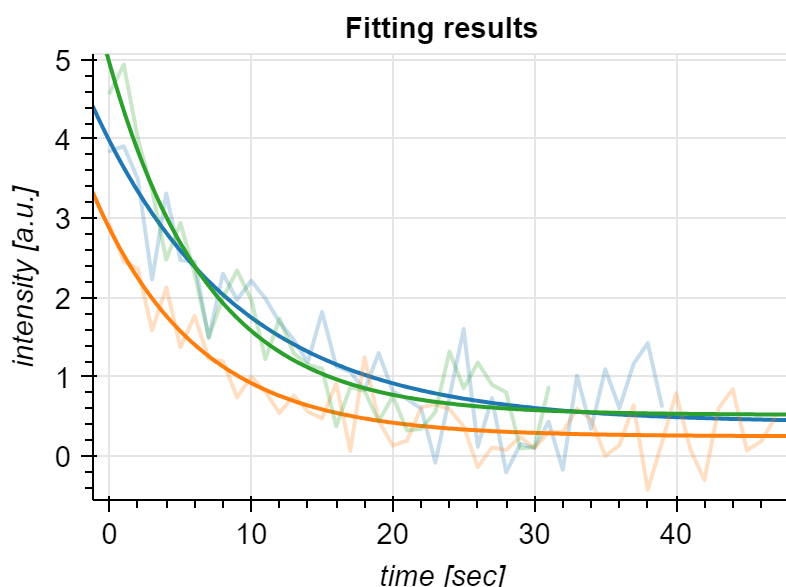
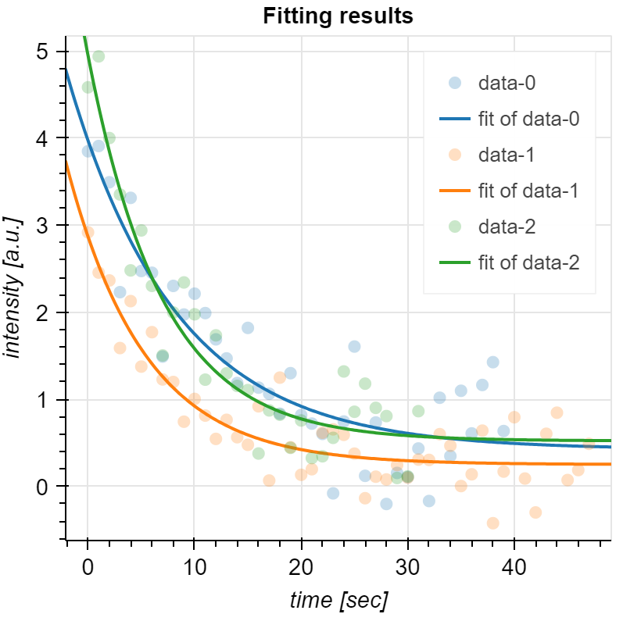
bump version to v0.2.3

diff --git a/examples/curve_fit.py b/examples/curve_fit.py
@@ -26,23 +26,23 @@ def main():
     def model(x, a, tau, b):
         return a * np.exp(-x / tau) + b
 
-    for p in params_true:
+    for i, p in enumerate(params_true):
         # add raw data
         x, y = sample_data(*p)
-        line = canvas.add_line(x, y, alpha=0.25)
+        markers = canvas.add_markers(x, y, alpha=0.25, name=f"data-{i}")
 
         # add the fitting curve
         params, _ = curve_fit(model, x, y, p0=[2, 1, 0])
         (
             canvas
-            .add_infcurve(model, color=line.color, alpha=1)
+            .add_infcurve(model, color=markers.face.color, name=f"fit of data-{i}")
             .update_params(*params)
             .with_hover_text("a={:.3g}, tau={:.3g}, b={:.3g}".format(*params))
         )
 
-    canvas.update_labels(
-        x="time [sec]", y="intensity [a.u.]", title="Fitting results"
-    ).show(block=True)
+    canvas.add_legend()
+    canvas.update_labels(x="time [sec]", y="intensity [a.u.]", title="Fitting results")
+    canvas.show(block=True)
 
 if __name__ == "__main__":
     main()

diff --git a/whitecanvas/__init__.py b/whitecanvas/__init__.py
@@ -1,4 +1,4 @@
-__version__ = "0.2.2"
+__version__ = "0.2.3"
 
 from whitecanvas import theme
 from whitecanvas.canvas import link_axes
